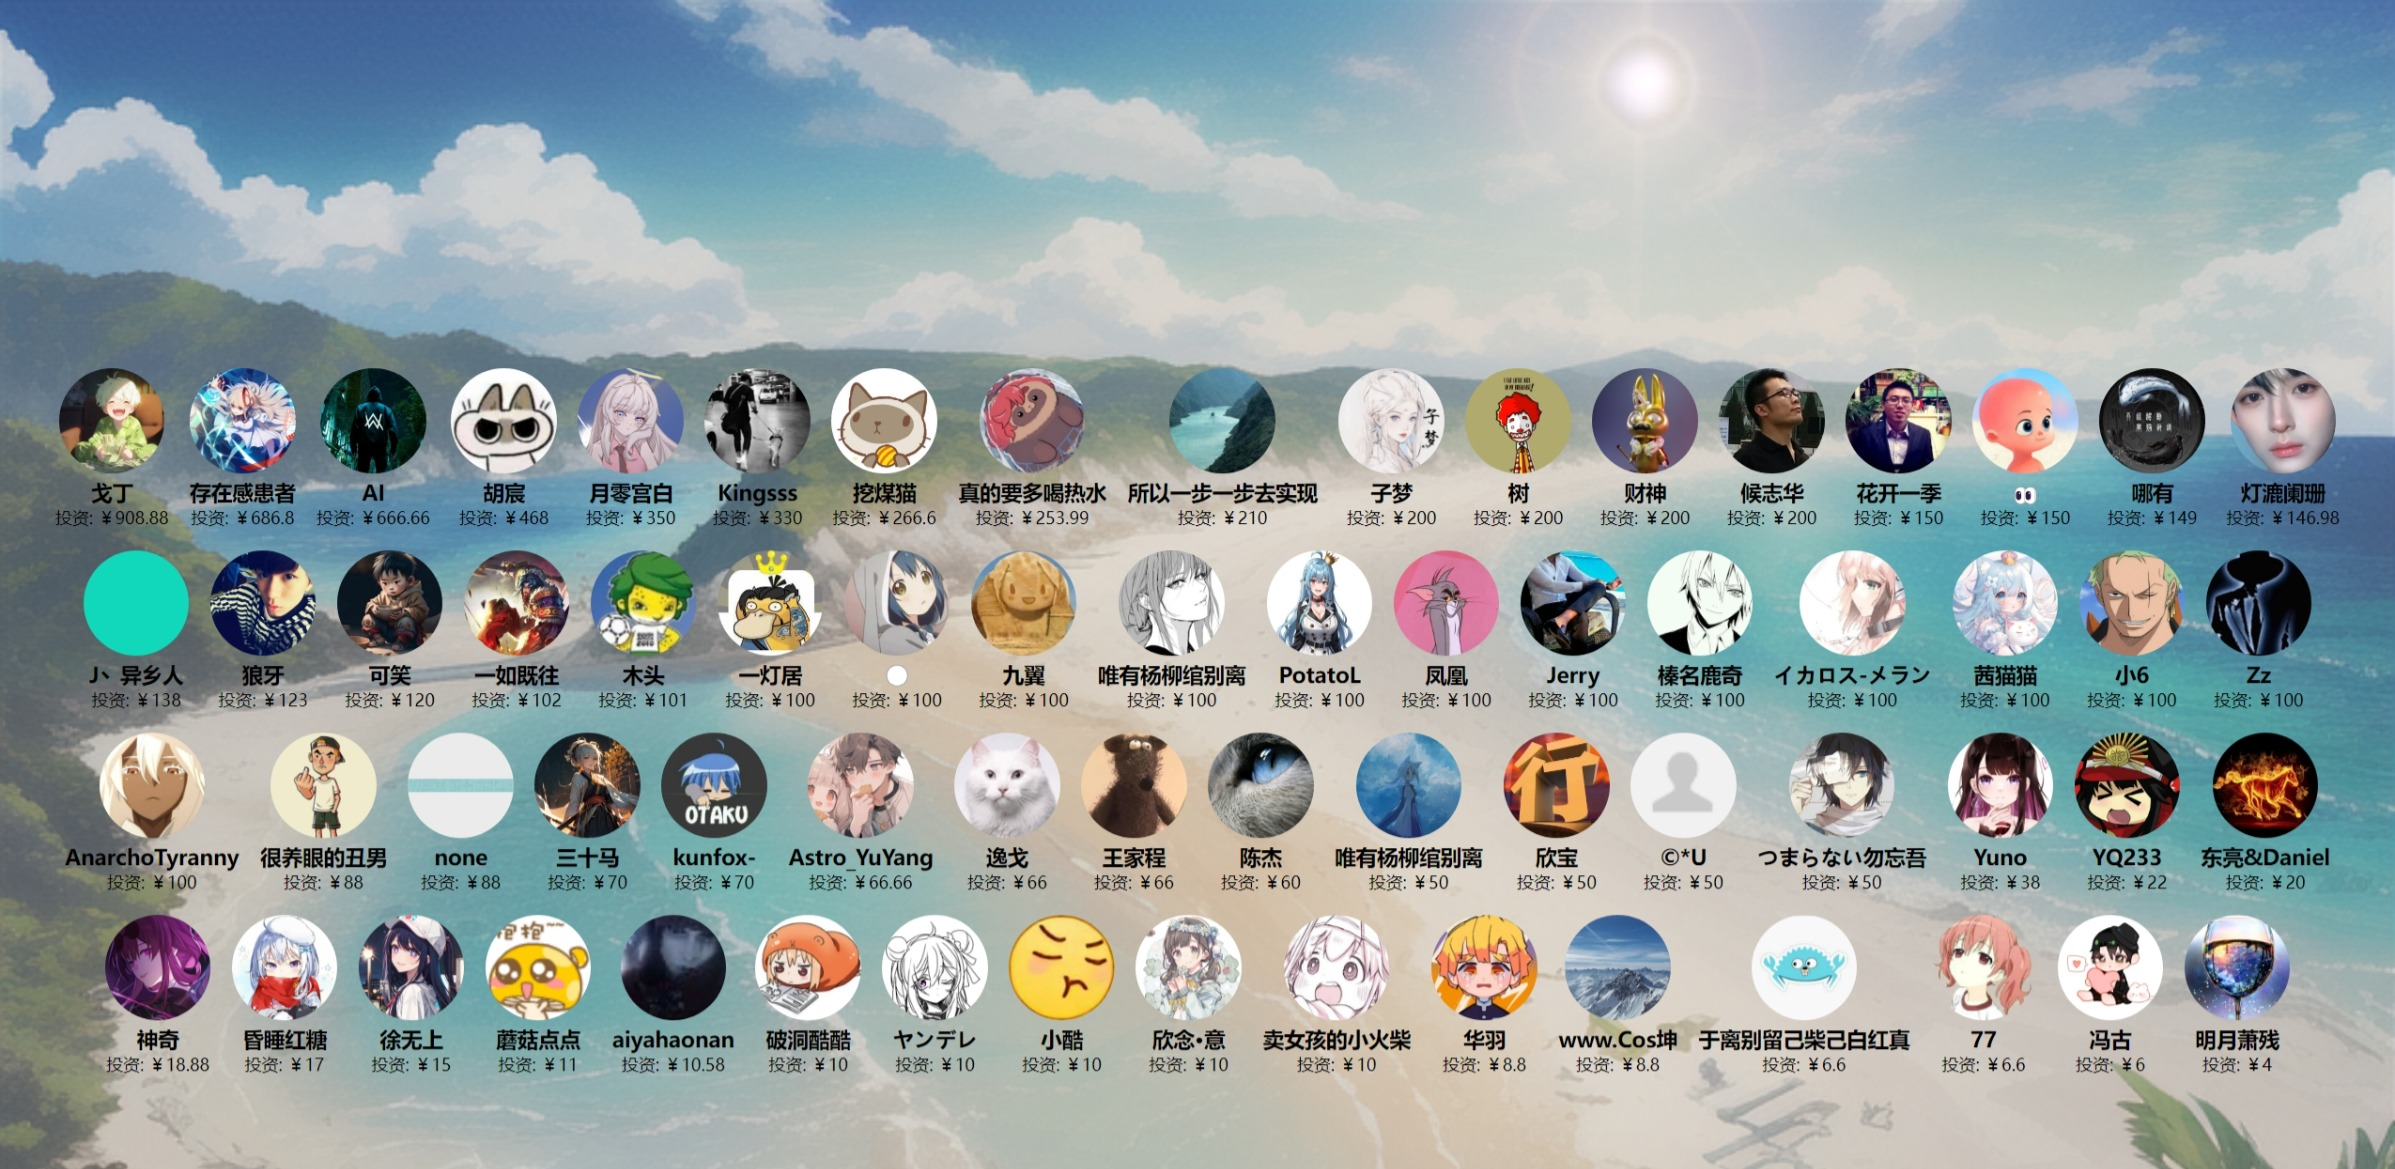
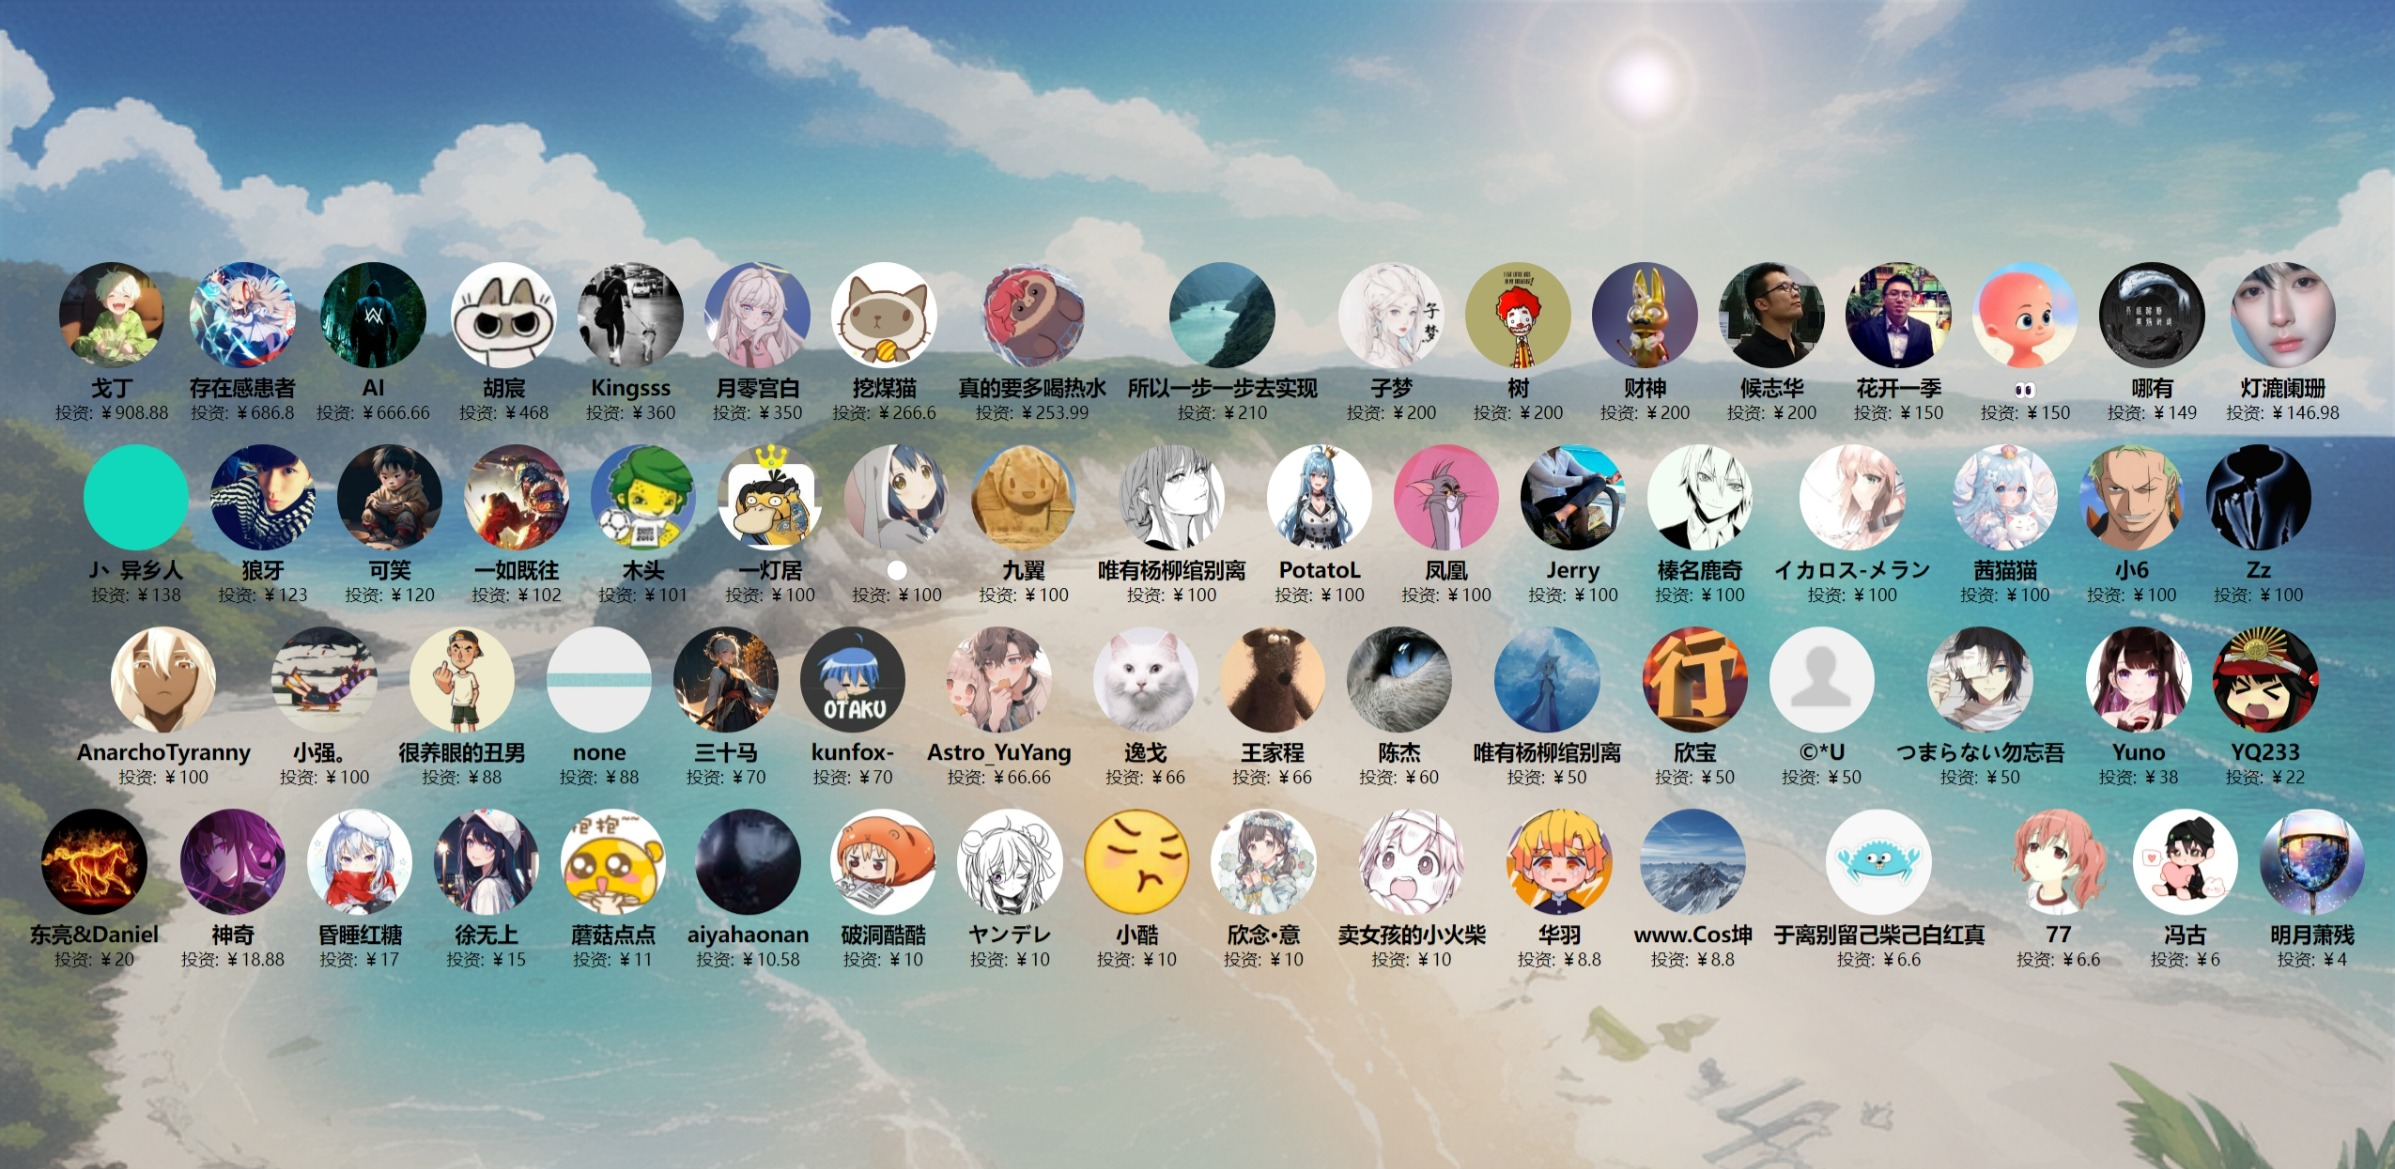
更新投资人

diff --git a/docs/投资人/index.html b/docs/投资人/index.html
@@ -18,7 +18,7 @@
             justify-content: center;
             gap: 20px;
             margin-top: 20px;
-            top: 300px;
+            top: 200px;
             position: relative;
         }
 
@@ -72,14 +72,14 @@
             amount: "￥468"
         },
         {
+            name: "Kingsss",
+            avatar: "https://images.cnblogs.com/cnblogs_com/ikaros-521/2328032/o_231201155829_QQ%E5%9B%BE%E7%89%8720231201235446.jpg",
+            amount: "￥360"
+        },
+        {
             name: "月零宫白",
             avatar: "https://images.cnblogs.com/cnblogs_com/ikaros-521/2328032/o_230719074437_%E6%9C%88%E9%9B%B6%E5%AE%AB%E7%99%BD.jpg",
             amount: "￥350"
-        },
-        {
-            name: "Kingsss",
-            avatar: "https://images.cnblogs.com/cnblogs_com/ikaros-521/2328032/o_231201155829_QQ%E5%9B%BE%E7%89%8720231201235446.jpg",
-            amount: "￥330"
         },
         {
             name: "挖煤猫",
@@ -224,6 +224,11 @@
         {
             name: "AnarchoTyranny",
             avatar: "https://images.cnblogs.com/cnblogs_com/ikaros-521/2328032/o_231212152840_QQ%E5%9B%BE%E7%89%8720231212232830.jpg",
+            amount: "￥100"
+        },
+        {
+            name: "小强。",
+            avatar: "https://images.cnblogs.com/cnblogs_com/ikaros-521/2328032/o_231214155736_QQ%E5%9B%BE%E7%89%8720231214235543.jpg",
             amount: "￥100"
         },
         {
